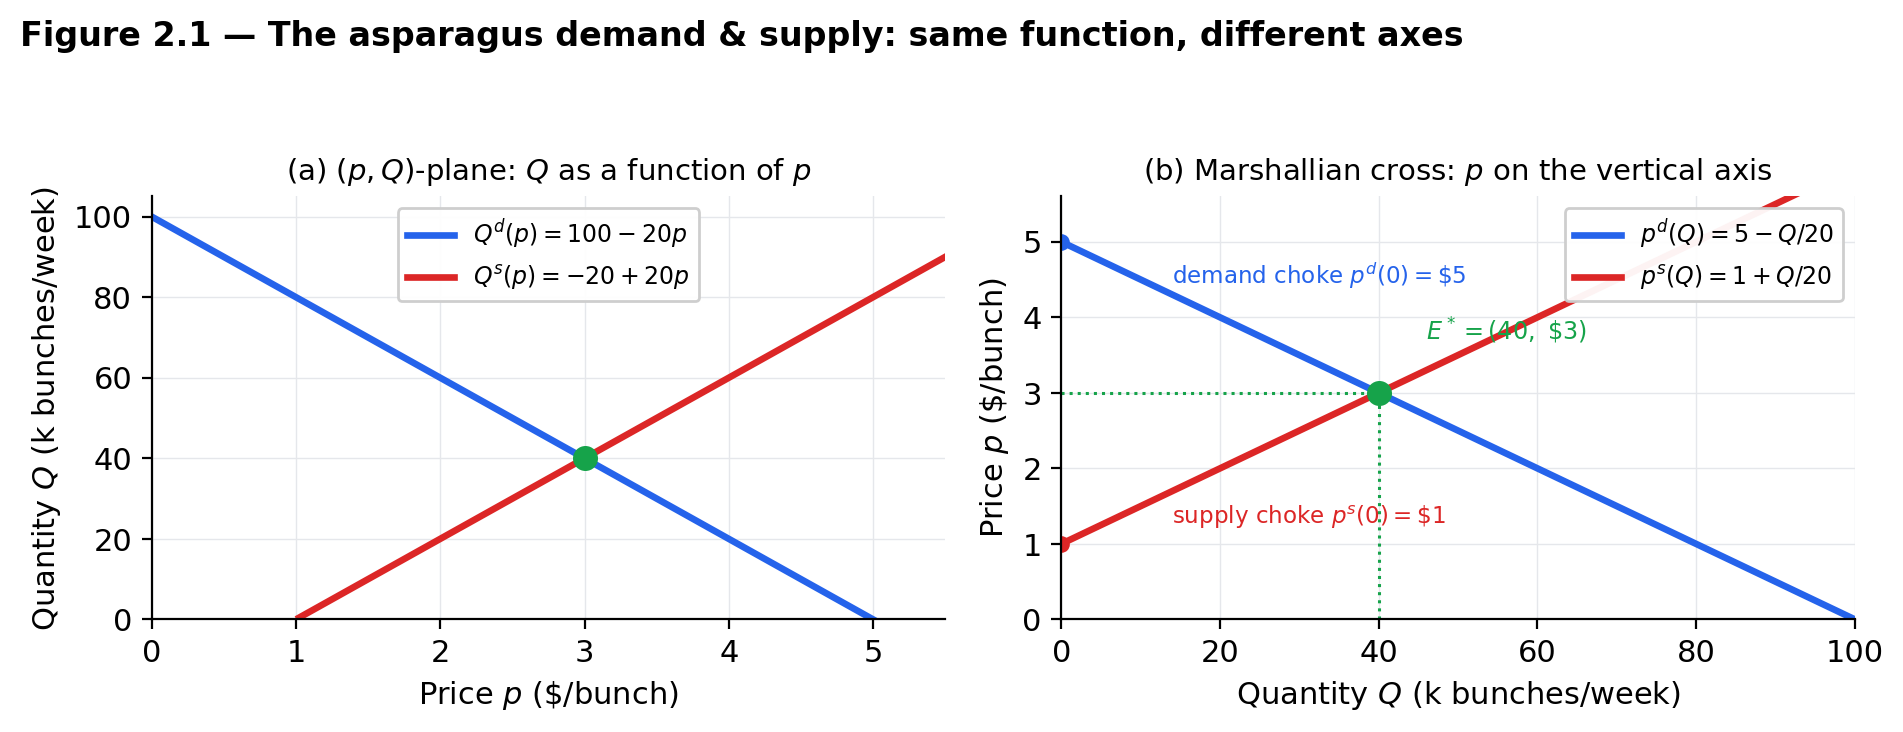
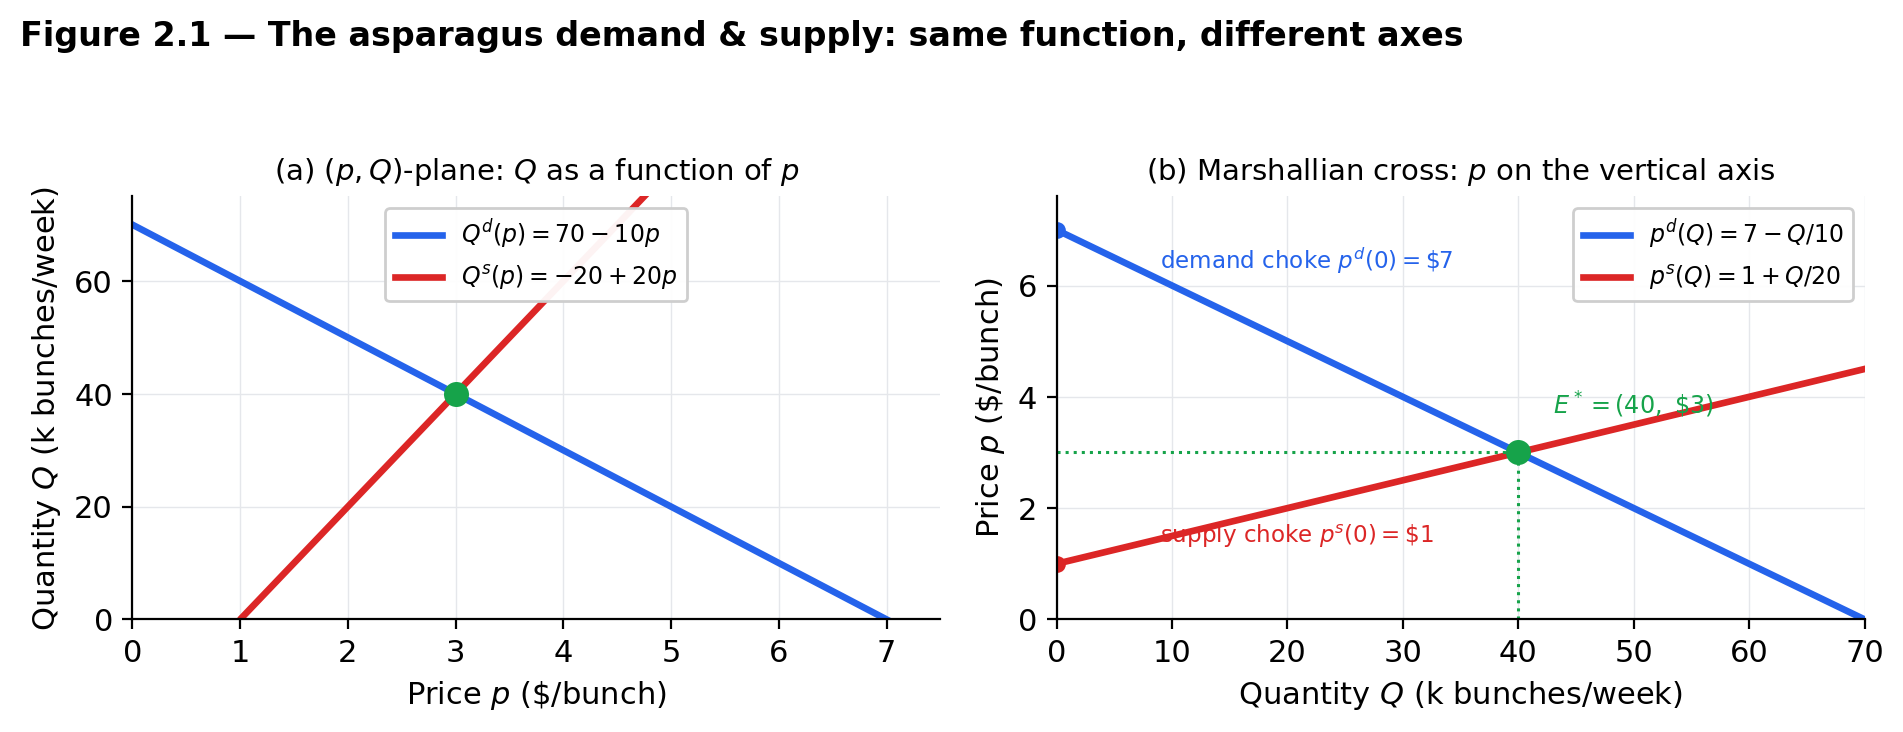
ch02 deck: recalibrate asparagus to Q^d=70-10p so the shock hits $3 -> $5 (matches the shelf tags)
The poll photos show $2.99 -> $4.99 but the algebra modeled a modest 15-unit
shock ($3.00 -> $3.38). Root cause: Q^d=100-20p has a $5 demand choke, so
equilibrium literally can't reach $5. Recalibrate to Q^d=70-10p (choke $7),
keeping supply (-20+20p, choke $1) and E0=($3,40) unchanged; a 60-unit supply
contraction now clears at ($5, 20).

Updated: poll-1-reveal (17.2, algebra box trimmed to a teaser -- removes the
duplicate of slide 19), market-equilibrium interactive (18, JS D_INT 5->7,
D_SLOPE 0.05->0.10, MAX_P->8, readout), numerical slide (19, full 4-step
rewrite to $5), inverse/choke slide (21, steps + demand choke $5->$7 +
regenerated figure_001b), Heads Up 2.1 (22). The equal-slope symmetric
surplus/shortage diagram (25) is relabeled a "symmetric calibration" and kept
on 100-20p (its mirror-gap pedagogy needs equal slopes; unequal slopes would
break it).
Verified in preview: interactive E*=(40,$3.00); numerical p*=$3 -> $5, Q 40->20;
all slides fit (<=631px), 0 raw math; sections 113/113; 4 copies byte-identical.

diff --git a/econ2316/ch02-supply-demand/index.html b/econ2316/ch02-supply-demand/index.html
@@ -1511,7 +1511,7 @@
          shift.
         </p>
         <div style="background: #eef4f8; border-left: 4px solid var(--secondary-color); padding: 11px 20px; border-radius: 8px; margin: 12px 0;">
-         <p style="font-size: 12.5pt; margin: 0; line-height: 1.55;"><strong>In algebra (the &sect;2.2 asparagus calibration).</strong> \(Q^d=100-20p,\ Q^s=-20+20p \Rightarrow (p^*,Q^*)=(\$3.00,\ 40)\). A cost shock trims supply 15 at every price: \(\widetilde Q^s=-35+20p \Rightarrow (\$3.375,\ 32.5)\). So \(p\uparrow\) (+12.5%), \(Q\downarrow\) (&minus;18.8%) &mdash; the sign rule, now with numbers (full solve on the next numerical slide).</p>
+         <p style="font-size: 12.5pt; margin: 0; line-height: 1.55;"><strong>In algebra.</strong> Baseline \((p^*, Q^*) = (\$3,\ 40)\). The supply-left shock pushes the equilibrium to \((\$5,\ 20)\) &mdash; \(p\uparrow\), \(Q\downarrow\), opposite directions, exactly what the shelf tags showed. <em>Full 4-step solve on the next numerical slide.</em></p>
         </div>
         <div style="background: #f0fdf4; border-left: 4px solid var(--success-color); padding: 12px 20px; border-radius: 8px; margin: 14px 0;">
          <p style="font-size: 13pt; margin: 0;">
@@ -1632,7 +1632,7 @@
         <p style="font-size: 12pt; color: var(--muted-color); margin: 6px 0 0;">
          Baseline: E₀ = (40k bunches/wk, $3.00/bunch)
          <br>
-         From \(Q^d = (5.00 - p)/0.05\) meeting \(Q^s = (p - 1.00)/0.05\)
+         From \(Q^d = (7.00 - p)/0.10\) meeting \(Q^s = (p - 1.00)/0.05\)
         </p>
        </div>
        <p style="font-size: 12pt; color: var(--muted-color); margin: 12px 0 0; line-height: 1.55;">
@@ -1661,7 +1661,7 @@
       </em>
      </h2>
      <p style="font-size: 12pt; color: var(--muted-color); margin: 0 0 8px;">
-      Same scenario, exact numbers. Pre-shift baseline &rarr; supply contracts by 15 units at every price &rarr; new equilibrium.
+      Same scenario, exact numbers. Pre-shift baseline &rarr; supply contracts by 60 units at every price &rarr; new equilibrium (\$3 &rarr; \$5, matching the shelf tags).
      </p>
      <div style="display: grid; grid-template-columns: 1fr 1fr; gap: 16px;">
       <div>
@@ -1670,7 +1670,7 @@
          Setup &mdash; last week (baseline)
         </p>
         <p style="font-size: 13pt; line-height: 1.55; margin: 0;">
-         Demand: \(Q^d = 100 - 20p\)
+         Demand: \(Q^d = 70 - 10p\)
          <br>
          Supply: \(Q^s = -20 + 20p\)
         </p>
@@ -1680,13 +1680,13 @@
          Step 1 &mdash; clear the market
         </p>
         <p style="font-size: 13pt; margin: 0;">
-         \(100 - 20p = -20 + 20p\)
+         \(70 - 10p = -20 + 20p\)
         </p>
         <p style="font-size: 13pt; margin: 4px 0 0;">
-         \(120 = 40p \Rightarrow \mathbf{p^* = \$3.00}\)
+         \(90 = 30p \Rightarrow \mathbf{p^* = \$3.00}\)
         </p>
         <p style="font-size: 13pt; margin: 4px 0 0;">
-         \(Q^* = 100 - 20(3) = \mathbf{40}\) k bunches/wk
+         \(Q^* = 70 - 10(3) = \mathbf{40}\) k bunches/wk
         </p>
        </div>
        <div class="fragment fade-in" style="background: #fef2f2; padding: 12px 16px; border-radius: 8px; border-left: 4px solid var(--danger-color); margin-top: 10px;">
@@ -1698,10 +1698,10 @@
          <em>
           every
          </em>
-         price, 15k fewer bunches available.
+         price, 60k fewer bunches available.
         </p>
         <p style="font-size: 13pt; margin: 6px 0 0;">
-         \(\widetilde Q^s = Q^s - 15 = -35 + 20p\)
+         \(\widetilde Q^s = Q^s - 60 = -80 + 20p\)
         </p>
        </div>
       </div>
@@ -1711,13 +1711,13 @@
          Step 3 &mdash; re-clear with new supply
         </p>
         <p style="font-size: 13pt; margin: 0;">
-         \(100 - 20p = -35 + 20p\)
+         \(70 - 10p = -80 + 20p\)
         </p>
         <p style="font-size: 13pt; margin: 4px 0 0;">
-         \(135 = 40p \Rightarrow \mathbf{\tilde p^* = \$3.375}\)
+         \(150 = 30p \Rightarrow \mathbf{\tilde p^* = \$5.00}\)
         </p>
         <p style="font-size: 13pt; margin: 4px 0 0;">
-         \(\tilde Q^* = 100 - 20(3.375) = \mathbf{32.5}\) k bunches/wk
+         \(\tilde Q^* = 70 - 10(5) = \mathbf{20}\) k bunches/wk
         </p>
        </div>
        <div class="fragment fade-in" style="background: #f0fdf4; padding: 12px 16px; border-radius: 8px; border-left: 4px solid var(--success-color); margin-top: 10px;">
@@ -1730,7 +1730,7 @@
            Price:
           </td>
           <td style="text-align: right; color: var(--danger-color); font-weight: 600;">
-           \$3.00 &rarr; \$3.38&nbsp;&nbsp;(+12.5%)
+           \$3.00 &rarr; \$5.00&nbsp;&nbsp;(+66.7%)
           </td>
          </tr>
          <tr>
@@ -1738,7 +1738,7 @@
            Quantity:
           </td>
           <td style="text-align: right; color: var(--danger-color); font-weight: 600;">
-           40 &rarr; 32.5&nbsp;&nbsp;(&minus;18.8%)
+           40 &rarr; 20&nbsp;&nbsp;(&minus;50%)
           </td>
          </tr>
          <tr style="border-top: 1px solid var(--line-color);">
@@ -1765,17 +1765,17 @@
        </div>
        <div class="fragment fade-in key-result" style="margin-top: 10px;">
         <p style="font-size: 13pt;">
-         A 15-unit supply contraction (about 19% of pre-shift quantity) raised price ~12.5% and cut quantity ~19%.
+         A severe supply contraction sent price up two-thirds (\$3 &rarr; \$5) and cut quantity in half.
          <strong>
-          Most of the shock landed on price
+          Price and quantity moved apart
          </strong>
-         &mdash; the supply slope is steep enough that demand absorbs the rest along the curve.
+         &mdash; the supply-shift signature, now matching the \$2.99 &rarr; \$4.99 shelf tags.
         </p>
        </div>
       </div>
      </div>
      <aside class="notes">
-      Walk through the 4 steps with the fragments. Same equilibrium move shown graphically on the previous slide, now with exact numbers. Compare to W2.2 HPAI eggs ($2 price rise, 10-unit quantity drop) &mdash; same diagnostic, smaller numbers because asparagus has a flatter (more elastic) curve. Mention that students will redo this exact calculation in the &sect;2.2 walkthroughs that follow.
+      Walk through the 4 steps with the fragments. Same equilibrium move shown graphically on the previous slide, now with exact numbers. The 60-unit supply contraction is calibrated to land price at exactly $5 (Q^d=70-10p has a $7 choke, so $5 is reachable) — matches the $2.99→$4.99 shelf tags in the poll photos. Same sign-rule diagnostic as W2.2 HPAI eggs (price up, quantity down). Mention students redo this style of calculation in the §2.2 walkthroughs.
      </aside>
     </section>
     <!-- ===== Slide 12 (vertical stack) — Poll #1 ===== -->
@@ -1988,7 +1988,7 @@
          <strong>
           1.
          </strong>
-         Start: \(Q^d = 100 - 20p\)
+         Start: \(Q^d = 70 - 10p\)
         </p>
        </div>
        <div class="fragment fade-up" data-fragment-index="3" style="background: #f8f6f3; padding: 8px 14px; border-radius: 8px; border-left: 4px solid var(--secondary-color); margin-top: 6px;">
@@ -1996,7 +1996,7 @@
          <strong>
           2.
          </strong>
-         Add \(20p\) to both sides: \(20p + Q^d = 100\)
+         Add \(10p\) to both sides: \(10p + Q^d = 70\)
         </p>
        </div>
        <div class="fragment fade-up" data-fragment-index="4" style="background: #f8f6f3; padding: 8px 14px; border-radius: 8px; border-left: 4px solid var(--secondary-color); margin-top: 6px;">
@@ -2004,7 +2004,7 @@
          <strong>
           3.
          </strong>
-         Solve for \(p\): &nbsp; \(p^d(Q) = \dfrac{100 - Q}{20} = 5 - \dfrac{Q}{20}\)
+         Solve for \(p\): &nbsp; \(p^d(Q) = \dfrac{70 - Q}{10} = 7 - \dfrac{Q}{10}\)
         </p>
        </div>
        <div class="fragment fade-up" data-fragment-index="5" style="background: #fef9f3; padding: 10px 14px; border-radius: 8px; border-left: 4px solid var(--accent-color); margin-top: 10px;">
@@ -2036,7 +2036,7 @@
          Asparagus values
         </p>
         <p style="font-size: 12.5pt; line-height: 1.5; margin: 0;">
-         \(p^d(0) = \mathbf{\$5}\) &nbsp;&middot;&nbsp; \(p^s(0) = \mathbf{\$1}\) &nbsp;&middot;&nbsp; \(p^* = \$3\) sits cleanly in between.
+         \(p^d(0) = \mathbf{\$7}\) &nbsp;&middot;&nbsp; \(p^s(0) = \mathbf{\$1}\) &nbsp;&middot;&nbsp; \(p^* = \$3\) sits cleanly in between.
         </p>
        </div>
       </div>
@@ -2089,10 +2089,10 @@
         Same numbers, two objects (asparagus)
        </p>
        <p style="font-size: 14pt; line-height: 1.6; margin-top: 6px;">
-        If \(Q^d(p) = 100 - 20p\), plug \(p = 3\) &rarr; \(Q = 40\).
+        If \(Q^d(p) = 70 - 10p\), plug \(p = 3\) &rarr; \(Q = 40\).
        </p>
        <p style="font-size: 14pt; line-height: 1.6;">
-        If \(p^d(Q) = (100 - Q)/20\), plug \(Q = 40\) &rarr; \(p = 3\).
+        If \(p^d(Q) = (70 - Q)/10\), plug \(Q = 40\) &rarr; \(p = 3\).
        </p>
        <p style="font-size: 13pt; color: var(--muted-color); margin-top: 6px; font-style: italic;">
         Both correct. Different domains and ranges.
@@ -2181,7 +2181,7 @@
       </em>
      </h2>
      <p style="font-size: 12pt; color: var(--muted-color); margin: 0 0 6px;">
-      Same asparagus calibration as before (\(Q^d = 100 - 20p\), \(Q^s = -20 + 20p\), \(E^* = (40, \$3)\)). Move the price line off equilibrium and the gap is the imbalance.
+      A symmetric asparagus calibration (\(Q^d = 100 - 20p\), \(Q^s = -20 + 20p\) &mdash; equal slopes, so \(E^* = (40, \$3)\) with a mirror-image gap). Move the price line off equilibrium and the gap is the imbalance.
      </p>
      <div style="display: grid; grid-template-columns: 1fr 1fr; gap: 18px; align-items: start;">
       <!-- ===== LEFT PANEL: Price too high → SURPLUS ===== -->
@@ -5945,9 +5945,9 @@
     var S_INT = 0.10, S_SLOPE = 0.025;
     var MAX_Q = 160, MAX_P = 4.2;
     // Asparagus-market constants — used by Market Equilibrium (Fig 4.5) — pre-shift baseline = ($3, 40k bunches/wk)
-    var ASP_D_INT = 5.00, ASP_D_SLOPE = 0.05;
+    var ASP_D_INT = 7.00, ASP_D_SLOPE = 0.10;
     var ASP_S_INT = 1.00, ASP_S_SLOPE = 0.05;
-    var ASP_MAX_Q = 80, ASP_MAX_P = 5.5;
+    var ASP_MAX_Q = 80, ASP_MAX_P = 8;
     // Colors
     var BLUE = "#2563eb", BLUE_LIGHT = "#93c5fd";
     var RED = "#dc2626", RED_LIGHT = "#fca5a5";

diff --git a/econ2316/ch02-supply-demand/presentation.html b/econ2316/ch02-supply-demand/presentation.html
@@ -1511,7 +1511,7 @@
          shift.
         </p>
         <div style="background: #eef4f8; border-left: 4px solid var(--secondary-color); padding: 11px 20px; border-radius: 8px; margin: 12px 0;">
-         <p style="font-size: 12.5pt; margin: 0; line-height: 1.55;"><strong>In algebra (the &sect;2.2 asparagus calibration).</strong> \(Q^d=100-20p,\ Q^s=-20+20p \Rightarrow (p^*,Q^*)=(\$3.00,\ 40)\). A cost shock trims supply 15 at every price: \(\widetilde Q^s=-35+20p \Rightarrow (\$3.375,\ 32.5)\). So \(p\uparrow\) (+12.5%), \(Q\downarrow\) (&minus;18.8%) &mdash; the sign rule, now with numbers (full solve on the next numerical slide).</p>
+         <p style="font-size: 12.5pt; margin: 0; line-height: 1.55;"><strong>In algebra.</strong> Baseline \((p^*, Q^*) = (\$3,\ 40)\). The supply-left shock pushes the equilibrium to \((\$5,\ 20)\) &mdash; \(p\uparrow\), \(Q\downarrow\), opposite directions, exactly what the shelf tags showed. <em>Full 4-step solve on the next numerical slide.</em></p>
         </div>
         <div style="background: #f0fdf4; border-left: 4px solid var(--success-color); padding: 12px 20px; border-radius: 8px; margin: 14px 0;">
          <p style="font-size: 13pt; margin: 0;">
@@ -1632,7 +1632,7 @@
         <p style="font-size: 12pt; color: var(--muted-color); margin: 6px 0 0;">
          Baseline: E₀ = (40k bunches/wk, $3.00/bunch)
          <br>
-         From \(Q^d = (5.00 - p)/0.05\) meeting \(Q^s = (p - 1.00)/0.05\)
+         From \(Q^d = (7.00 - p)/0.10\) meeting \(Q^s = (p - 1.00)/0.05\)
         </p>
        </div>
        <p style="font-size: 12pt; color: var(--muted-color); margin: 12px 0 0; line-height: 1.55;">
@@ -1661,7 +1661,7 @@
       </em>
      </h2>
      <p style="font-size: 12pt; color: var(--muted-color); margin: 0 0 8px;">
-      Same scenario, exact numbers. Pre-shift baseline &rarr; supply contracts by 15 units at every price &rarr; new equilibrium.
+      Same scenario, exact numbers. Pre-shift baseline &rarr; supply contracts by 60 units at every price &rarr; new equilibrium (\$3 &rarr; \$5, matching the shelf tags).
      </p>
      <div style="display: grid; grid-template-columns: 1fr 1fr; gap: 16px;">
       <div>
@@ -1670,7 +1670,7 @@
          Setup &mdash; last week (baseline)
         </p>
         <p style="font-size: 13pt; line-height: 1.55; margin: 0;">
-         Demand: \(Q^d = 100 - 20p\)
+         Demand: \(Q^d = 70 - 10p\)
          <br>
          Supply: \(Q^s = -20 + 20p\)
         </p>
@@ -1680,13 +1680,13 @@
          Step 1 &mdash; clear the market
         </p>
         <p style="font-size: 13pt; margin: 0;">
-         \(100 - 20p = -20 + 20p\)
+         \(70 - 10p = -20 + 20p\)
         </p>
         <p style="font-size: 13pt; margin: 4px 0 0;">
-         \(120 = 40p \Rightarrow \mathbf{p^* = \$3.00}\)
+         \(90 = 30p \Rightarrow \mathbf{p^* = \$3.00}\)
         </p>
         <p style="font-size: 13pt; margin: 4px 0 0;">
-         \(Q^* = 100 - 20(3) = \mathbf{40}\) k bunches/wk
+         \(Q^* = 70 - 10(3) = \mathbf{40}\) k bunches/wk
         </p>
        </div>
        <div class="fragment fade-in" style="background: #fef2f2; padding: 12px 16px; border-radius: 8px; border-left: 4px solid var(--danger-color); margin-top: 10px;">
@@ -1698,10 +1698,10 @@
          <em>
           every
          </em>
-         price, 15k fewer bunches available.
+         price, 60k fewer bunches available.
         </p>
         <p style="font-size: 13pt; margin: 6px 0 0;">
-         \(\widetilde Q^s = Q^s - 15 = -35 + 20p\)
+         \(\widetilde Q^s = Q^s - 60 = -80 + 20p\)
         </p>
        </div>
       </div>
@@ -1711,13 +1711,13 @@
          Step 3 &mdash; re-clear with new supply
         </p>
         <p style="font-size: 13pt; margin: 0;">
-         \(100 - 20p = -35 + 20p\)
+         \(70 - 10p = -80 + 20p\)
         </p>
         <p style="font-size: 13pt; margin: 4px 0 0;">
-         \(135 = 40p \Rightarrow \mathbf{\tilde p^* = \$3.375}\)
+         \(150 = 30p \Rightarrow \mathbf{\tilde p^* = \$5.00}\)
         </p>
         <p style="font-size: 13pt; margin: 4px 0 0;">
-         \(\tilde Q^* = 100 - 20(3.375) = \mathbf{32.5}\) k bunches/wk
+         \(\tilde Q^* = 70 - 10(5) = \mathbf{20}\) k bunches/wk
         </p>
        </div>
        <div class="fragment fade-in" style="background: #f0fdf4; padding: 12px 16px; border-radius: 8px; border-left: 4px solid var(--success-color); margin-top: 10px;">
@@ -1730,7 +1730,7 @@
            Price:
           </td>
           <td style="text-align: right; color: var(--danger-color); font-weight: 600;">
-           \$3.00 &rarr; \$3.38&nbsp;&nbsp;(+12.5%)
+           \$3.00 &rarr; \$5.00&nbsp;&nbsp;(+66.7%)
           </td>
          </tr>
          <tr>
@@ -1738,7 +1738,7 @@
            Quantity:
           </td>
           <td style="text-align: right; color: var(--danger-color); font-weight: 600;">
-           40 &rarr; 32.5&nbsp;&nbsp;(&minus;18.8%)
+           40 &rarr; 20&nbsp;&nbsp;(&minus;50%)
           </td>
          </tr>
          <tr style="border-top: 1px solid var(--line-color);">
@@ -1765,17 +1765,17 @@
        </div>
        <div class="fragment fade-in key-result" style="margin-top: 10px;">
         <p style="font-size: 13pt;">
-         A 15-unit supply contraction (about 19% of pre-shift quantity) raised price ~12.5% and cut quantity ~19%.
+         A severe supply contraction sent price up two-thirds (\$3 &rarr; \$5) and cut quantity in half.
          <strong>
-          Most of the shock landed on price
+          Price and quantity moved apart
          </strong>
-         &mdash; the supply slope is steep enough that demand absorbs the rest along the curve.
+         &mdash; the supply-shift signature, now matching the \$2.99 &rarr; \$4.99 shelf tags.
         </p>
        </div>
       </div>
      </div>
      <aside class="notes">
-      Walk through the 4 steps with the fragments. Same equilibrium move shown graphically on the previous slide, now with exact numbers. Compare to W2.2 HPAI eggs ($2 price rise, 10-unit quantity drop) &mdash; same diagnostic, smaller numbers because asparagus has a flatter (more elastic) curve. Mention that students will redo this exact calculation in the &sect;2.2 walkthroughs that follow.
+      Walk through the 4 steps with the fragments. Same equilibrium move shown graphically on the previous slide, now with exact numbers. The 60-unit supply contraction is calibrated to land price at exactly $5 (Q^d=70-10p has a $7 choke, so $5 is reachable) — matches the $2.99→$4.99 shelf tags in the poll photos. Same sign-rule diagnostic as W2.2 HPAI eggs (price up, quantity down). Mention students redo this style of calculation in the §2.2 walkthroughs.
      </aside>
     </section>
     <!-- ===== Slide 12 (vertical stack) — Poll #1 ===== -->
@@ -1988,7 +1988,7 @@
          <strong>
           1.
          </strong>
-         Start: \(Q^d = 100 - 20p\)
+         Start: \(Q^d = 70 - 10p\)
         </p>
        </div>
        <div class="fragment fade-up" data-fragment-index="3" style="background: #f8f6f3; padding: 8px 14px; border-radius: 8px; border-left: 4px solid var(--secondary-color); margin-top: 6px;">
@@ -1996,7 +1996,7 @@
          <strong>
           2.
          </strong>
-         Add \(20p\) to both sides: \(20p + Q^d = 100\)
+         Add \(10p\) to both sides: \(10p + Q^d = 70\)
         </p>
        </div>
        <div class="fragment fade-up" data-fragment-index="4" style="background: #f8f6f3; padding: 8px 14px; border-radius: 8px; border-left: 4px solid var(--secondary-color); margin-top: 6px;">
@@ -2004,7 +2004,7 @@
          <strong>
           3.
          </strong>
-         Solve for \(p\): &nbsp; \(p^d(Q) = \dfrac{100 - Q}{20} = 5 - \dfrac{Q}{20}\)
+         Solve for \(p\): &nbsp; \(p^d(Q) = \dfrac{70 - Q}{10} = 7 - \dfrac{Q}{10}\)
         </p>
        </div>
        <div class="fragment fade-up" data-fragment-index="5" style="background: #fef9f3; padding: 10px 14px; border-radius: 8px; border-left: 4px solid var(--accent-color); margin-top: 10px;">
@@ -2036,7 +2036,7 @@
          Asparagus values
         </p>
         <p style="font-size: 12.5pt; line-height: 1.5; margin: 0;">
-         \(p^d(0) = \mathbf{\$5}\) &nbsp;&middot;&nbsp; \(p^s(0) = \mathbf{\$1}\) &nbsp;&middot;&nbsp; \(p^* = \$3\) sits cleanly in between.
+         \(p^d(0) = \mathbf{\$7}\) &nbsp;&middot;&nbsp; \(p^s(0) = \mathbf{\$1}\) &nbsp;&middot;&nbsp; \(p^* = \$3\) sits cleanly in between.
         </p>
        </div>
       </div>
@@ -2089,10 +2089,10 @@
         Same numbers, two objects (asparagus)
        </p>
        <p style="font-size: 14pt; line-height: 1.6; margin-top: 6px;">
-        If \(Q^d(p) = 100 - 20p\), plug \(p = 3\) &rarr; \(Q = 40\).
+        If \(Q^d(p) = 70 - 10p\), plug \(p = 3\) &rarr; \(Q = 40\).
        </p>
        <p style="font-size: 14pt; line-height: 1.6;">
-        If \(p^d(Q) = (100 - Q)/20\), plug \(Q = 40\) &rarr; \(p = 3\).
+        If \(p^d(Q) = (70 - Q)/10\), plug \(Q = 40\) &rarr; \(p = 3\).
        </p>
        <p style="font-size: 13pt; color: var(--muted-color); margin-top: 6px; font-style: italic;">
         Both correct. Different domains and ranges.
@@ -2181,7 +2181,7 @@
       </em>
      </h2>
      <p style="font-size: 12pt; color: var(--muted-color); margin: 0 0 6px;">
-      Same asparagus calibration as before (\(Q^d = 100 - 20p\), \(Q^s = -20 + 20p\), \(E^* = (40, \$3)\)). Move the price line off equilibrium and the gap is the imbalance.
+      A symmetric asparagus calibration (\(Q^d = 100 - 20p\), \(Q^s = -20 + 20p\) &mdash; equal slopes, so \(E^* = (40, \$3)\) with a mirror-image gap). Move the price line off equilibrium and the gap is the imbalance.
      </p>
      <div style="display: grid; grid-template-columns: 1fr 1fr; gap: 18px; align-items: start;">
       <!-- ===== LEFT PANEL: Price too high → SURPLUS ===== -->
@@ -5945,9 +5945,9 @@
     var S_INT = 0.10, S_SLOPE = 0.025;
     var MAX_Q = 160, MAX_P = 4.2;
     // Asparagus-market constants — used by Market Equilibrium (Fig 4.5) — pre-shift baseline = ($3, 40k bunches/wk)
-    var ASP_D_INT = 5.00, ASP_D_SLOPE = 0.05;
+    var ASP_D_INT = 7.00, ASP_D_SLOPE = 0.10;
     var ASP_S_INT = 1.00, ASP_S_SLOPE = 0.05;
-    var ASP_MAX_Q = 80, ASP_MAX_P = 5.5;
+    var ASP_MAX_Q = 80, ASP_MAX_P = 8;
     // Colors
     var BLUE = "#2563eb", BLUE_LIGHT = "#93c5fd";
     var RED = "#dc2626", RED_LIGHT = "#fca5a5";
